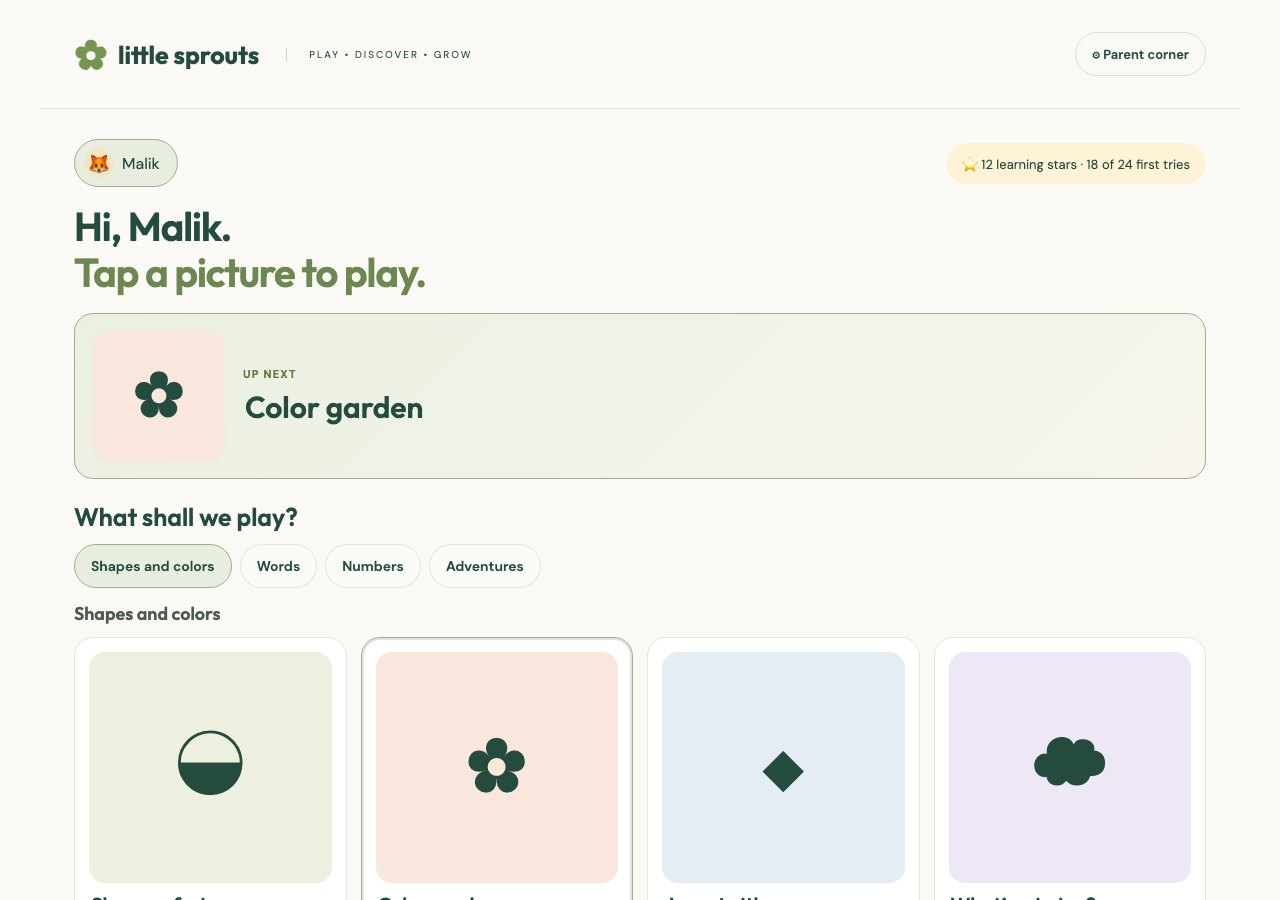
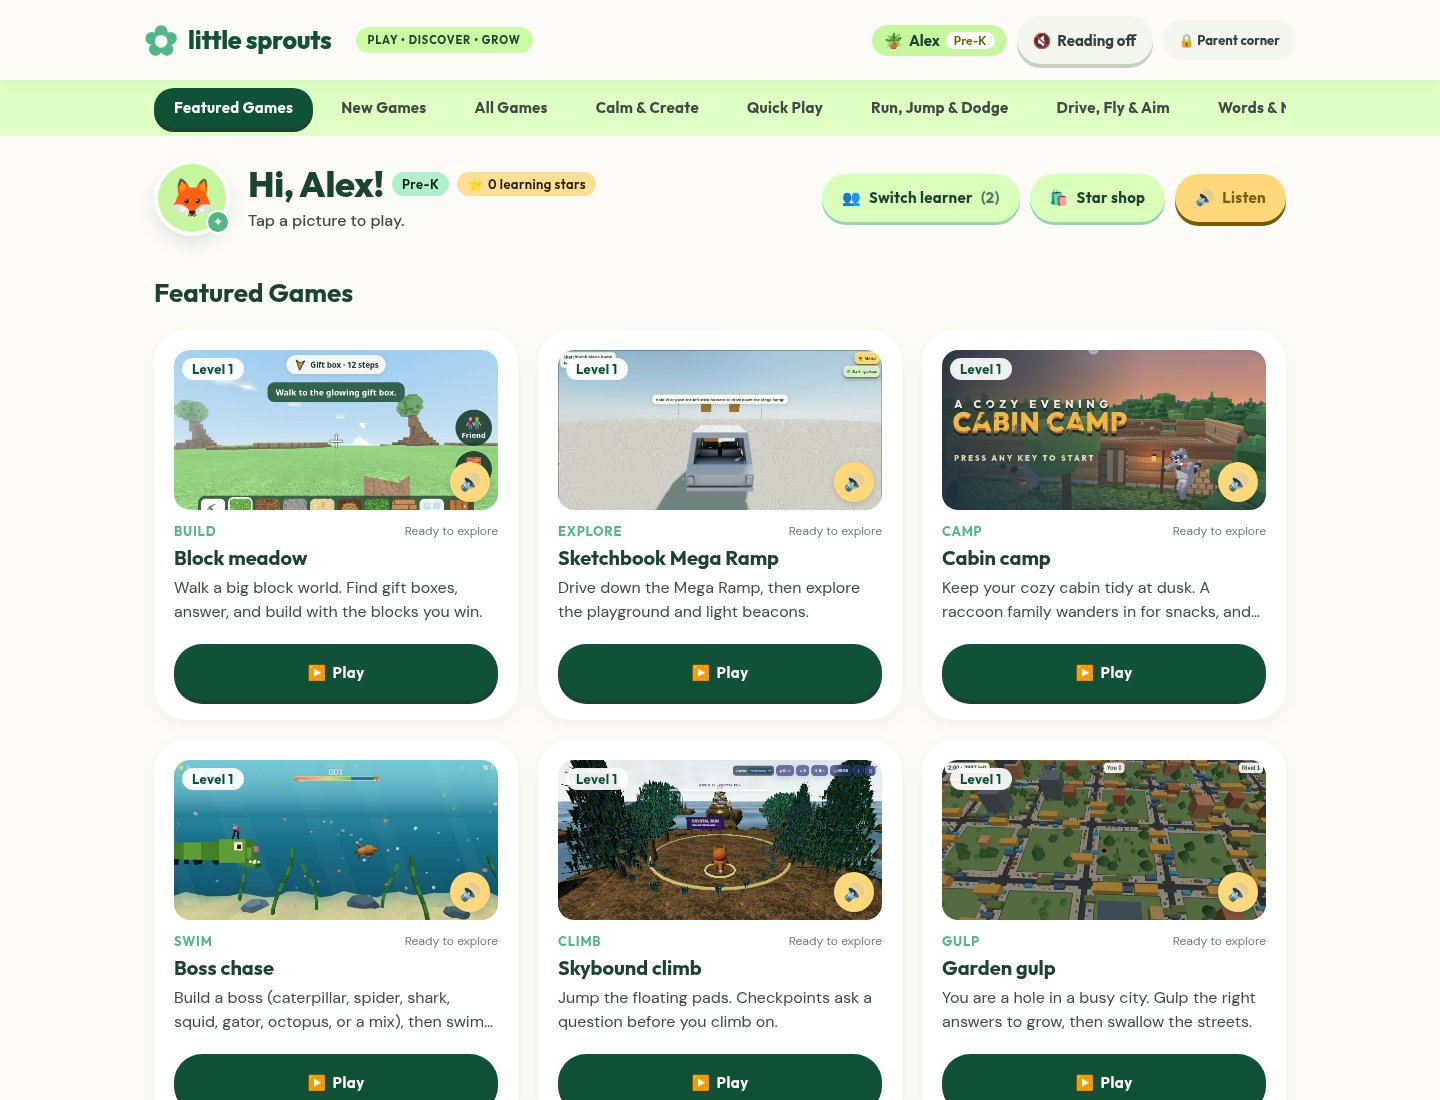
Feature adventure games and add recent and newest shelves

diff --git a/style.css b/style.css
@@ -896,6 +896,11 @@ footer .credit-link{color:var(--g-primary)}
 /* game cards */
 .shelf2{display:flex;flex-direction:column;gap:20px}
 .gcards{display:grid;grid-template-columns:repeat(4,minmax(0,1fr));gap:20px}
+.discovery-cards{grid-template-columns:repeat(3,minmax(0,1fr))}
+.shelf-sort{display:flex;align-items:center;gap:8px;font-weight:700;color:var(--g-muted)}
+.shelf-sort select{width:auto;min-height:44px;border-radius:16px}
+.gameplay-img{display:block;width:100%;height:100%;object-fit:cover}
+.gcard-pic:has(.gameplay-img),.hero2-pic:has(.gameplay-img){padding:0;overflow:hidden}
 .gcard{display:flex;flex-direction:column;padding:20px;border-radius:32px;background:#fff;box-shadow:var(--g-shadow);transition:box-shadow .2s,transform .2s}
 .gcard:hover{box-shadow:var(--g-shadow-up);transform:translateY(-2px)}
 .gcard.is-next{outline:3px solid var(--g-leaf);outline-offset:-3px}
@@ -931,6 +936,7 @@ footer .credit-link{color:var(--g-primary)}
 @media(max-width:900px){.hero2{grid-template-columns:1fr;gap:20px;padding:24px}.hero2-title{font-size:40px}.gcards{grid-template-columns:repeat(2,minmax(0,1fr))}}
 @media(max-width:700px){.home2{gap:28px}header{padding:10px 16px}.brand-note{display:none}.greet h1{font-size:28px;line-height:36px}.greet-avatar{width:60px;height:60px;font-size:30px}.greet-tools{width:100%}.hero2-title{font-size:34px;line-height:40px}.hero2-art{width:168px;height:168px}.hero2-pic{font-size:76px;border-radius:40px}.btn-go{min-height:56px;padding:0 28px}.subjects{grid-template-columns:repeat(2,minmax(0,1fr))}.sectionhint{display:none}.switcher-menu{left:0;right:auto}footer{padding:16px}}
 @media(max-width:560px){.gcards{grid-template-columns:1fr}.gcard-art{height:140px}}
+@media(max-width:700px){.discovery-cards{grid-template-columns:repeat(2,minmax(0,1fr));gap:12px}.discovery .gcard{padding:12px;border-radius:24px}.discovery .gcard-art{height:112px}.discovery .gcard-title{font-size:20px;line-height:24px}.discovery .gcard-blurb{font-size:13px;line-height:19px}.discovery .gcard-meta{flex-wrap:wrap}.discovery .gcard-hear{width:36px;height:36px}.discovery .gcard-chip{font-size:11px;padding:2px 6px}}
 @media(prefers-reduced-motion:reduce){.gcard,.gcard-icon,.hero2-pic,.subject,.btn-go,.btn-soft,.btn-sun,.gcard-play{transition:none}.gcard:hover,.gcard:hover .gcard-icon,.hero2-pic:hover,.btn-go:hover{transform:none}}
 
 /* ===== Redesign part 2: art, header tools, subnav, read strip, body play, helper bars, footer ===== */

diff --git a/app.js b/app.js
@@ -29,7 +29,8 @@ Object.assign(rt, {
   gateNext: null,
   gateAnswer: 0,
   askYesOnCancel: false,
-  homeShelf: '',
+  homeShelf: 'featured',
+  homeSort: 'featured',
   homeHowOpen: false,
   listenToken: 0,
   talking: false,

diff --git a/docs/game-discovery.md b/docs/game-discovery.md
@@ -1,0 +1,22 @@
+# Home game discovery
+
+The default home view shows Featured Games, Keep Playing (when available), and six New Games. Categories and All Games remain available in the top navigation and below these rows. Featured games use real 640 × 360 JPEG captures in `icons/gameplay/`, included in the normal offline inventory.
+
+`lib/game-discovery.mjs` owns the featured order and addition dates. The featured order is:
+
+1. Block meadow
+2. Sketchbook Mega Ramp
+3. Cabin camp
+4. Boss chase
+5. Skybound climb
+6. Garden gulp
+
+When adding a game, add its ID and an explicit `YYYY-MM-DD` addition date to `GAME_ADDED`. Existing dates were backfilled from the first appearance of the game's source or catalog entry in Git history. Do not change them for fixes, rebuilds, or new screenshots. Equal dates sort by game ID so the New Games preview and full list agree regardless of category grouping. The test suite checks that every registered game has a date.
+
+Featured-first browsing puts available featured games first in the same order, followed by other games newest first. Newest-first browsing uses only addition dates. All discovery rows receive the existing availability-filtered catalog: hidden reading games, missing builds, device-incompatible games, and unavailable offline games are not brought back by discovery.
+
+Recent games are stored in the learner's `recentGames` list alongside the existing `lastPlayed` field. Starting a game moves it to the front, removes duplicates, and keeps at most six IDs. Old profiles using only `lastPlayed` continue to work. This is a shortcut to reopen the game, not a saved round or cross-device history.
+
+A valid Parent corner Up next pin retains its banner. Without a pin, the featured row replaces the old automatic Shape safari banner so players see the featured choices immediately. The read-aloud recommendation and Up next marker use the featured-first catalog and continue to respect the parent pin and next-after-last-played behavior.
+
+Run `node --test tests/*.test.mjs server/*.test.mjs` and the production bundle/budget checks in `.github/workflows/verify.yml` before changing this flow. Check a new learner, an existing learner, learner switching, parent pins, category filters, and both sort options at desktop and phone widths.

diff --git a/README.md b/README.md
@@ -48,7 +48,9 @@ Joining by sound needs the microphone once, and it works best with the computers
 
 ## How a round works
 
-Home shows **Up next**, then **What shall we play?** with shelves for shapes and colors, words, numbers, and adventures. **How we play** opens Tap, Move, Hunt, or Reach:
+Home starts with **Featured Games**: Block meadow, Sketchbook Mega Ramp, Cabin camp, Boss chase, Skybound climb, and Garden gulp, in that order. Each card shows a picture from the game. **Keep Playing** remembers up to six games for each learner on this browser. **New Games** shows recent additions; **Browse All Games** keeps every available game within reach through the existing categories. All Games and each category offer **Featured first** and **Newest first**. A grown-up's **Up next** pin still appears above the featured games.
+
+**How we play** opens Tap, Move, Hunt, or Reach:
 
 - **Tap** — the child answers on the screen.
 - **Move** — the game calls out a movement, and a grown-up taps when the child lands on the right floor card. Floor cards can be printed from Parent corner.
